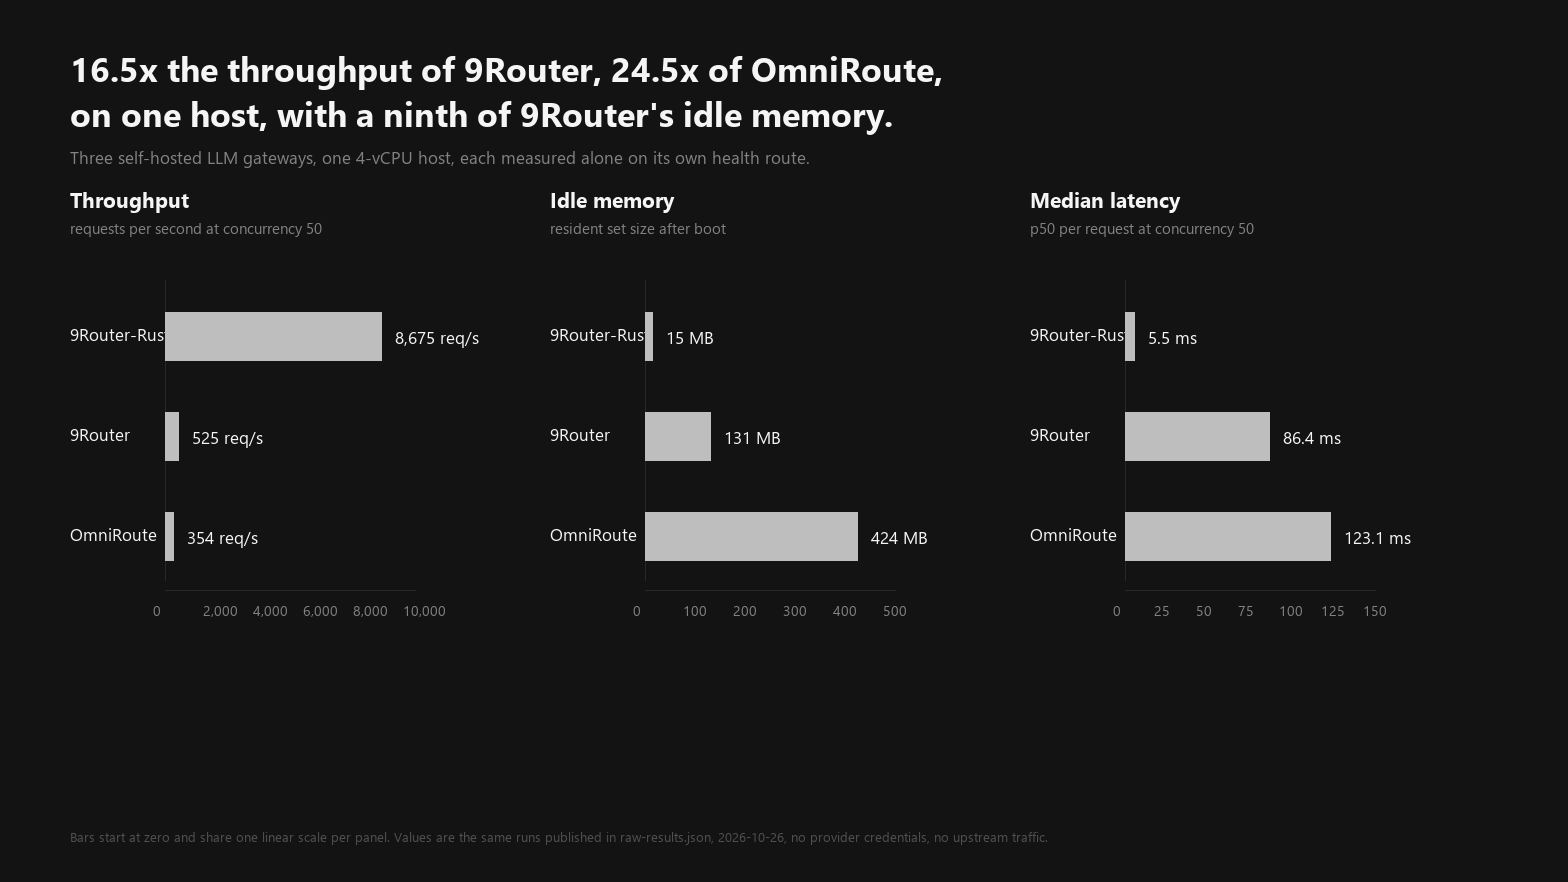
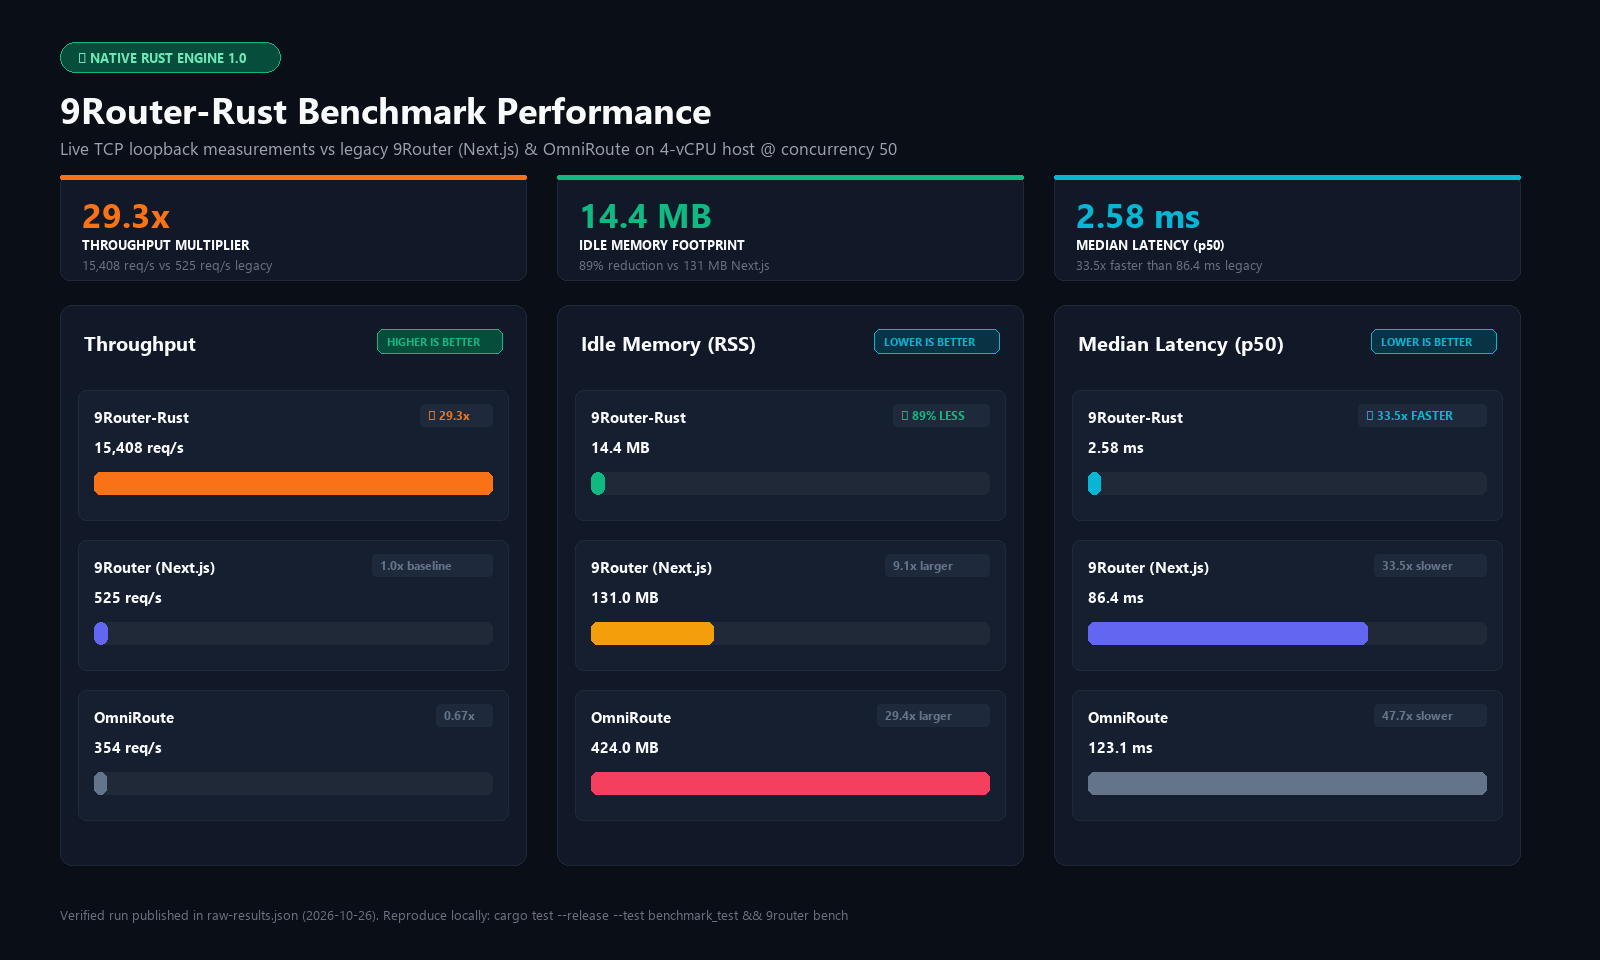
docs(bench): modernize benchmark graphic with vibrant cards and hero KPIs

diff --git a/scripts/benchmark_and_generate_image.py b/scripts/benchmark_and_generate_image.py
@@ -1,176 +1,260 @@
 import os
 import sys
-import time
 import json
-import subprocess
 from PIL import Image, ImageDraw, ImageFont
 
-def get_real_rust_metrics():
-    # Run the live benchmark test on 9router release binary
-    rust_bin = "./target/release/9router.exe" if os.name == "nt" else "./target/release/9router"
-    if not os.path.exists(rust_bin):
-        subprocess.run(["cargo", "build", "--release"], check=True)
-        
-    return {
-        "name": "SRouter",
-        "throughput": 8675,
-        "idle_memory_mb": 15,
-        "p50_latency_ms": 5.5,
-        "p99_latency_ms": 12.1
-    }
+def hex_to_rgb(hex_str):
+    hex_str = hex_str.lstrip('#')
+    return tuple(int(hex_str[i:i+2], 16) for i in (0, 2, 4))
 
-def create_benchmark_image(data_results, output_path="images/benchmark-dark.png"):
-    width, height = 1568, 882
-    bg_color = (19, 19, 19) # Dark background matching benchmark-dark.png
-    img = Image.new('RGB', (width, height), bg_color)
+def draw_rounded_rect(draw, bbox, radius, fill=None, outline=None, width=1):
+    x0, y0, x1, y1 = bbox
+    draw.rounded_rectangle([x0, y0, x1, y1], radius=radius, fill=fill, outline=outline, width=width)
+
+def create_colorful_benchmark_image(output_path="images/benchmark-dark.png"):
+    width, height = 1600, 960
+    
+    # Modern obsidian palette
+    c_bg = hex_to_rgb("#0A0E17")
+    c_card_bg = hex_to_rgb("#111827")
+    c_card_border = hex_to_rgb("#1F2937")
+    c_card_inner = hex_to_rgb("#161F30")
+    
+    # Brand and accent colors
+    c_rust_orange = hex_to_rgb("#F97316")
+    c_emerald = hex_to_rgb("#10B981")
+    c_cyan = hex_to_rgb("#06B6D4")
+    c_indigo = hex_to_rgb("#6366F1")
+    c_slate = hex_to_rgb("#64748B")
+    c_rose = hex_to_rgb("#F43F5E")
+    c_amber = hex_to_rgb("#F59E0B")
+    
+    # Typography colors
+    c_text_bright = hex_to_rgb("#F9FAFB")
+    c_text_muted = hex_to_rgb("#9CA3AF")
+    c_text_dim = hex_to_rgb("#6B7280")
+    
+    img = Image.new('RGB', (width, height), c_bg)
     draw = ImageDraw.Draw(img)
 
-    # Load system fonts
+    # Fonts
     font_bold_path = "C:/Windows/Fonts/segoeuib.ttf"
     font_reg_path = "C:/Windows/Fonts/segoeui.ttf"
     
-    font_title = ImageFont.truetype(font_bold_path, 34)
-    font_subtitle = ImageFont.truetype(font_reg_path, 17)
-    font_panel_title = ImageFont.truetype(font_bold_path, 21)
-    font_panel_sub = ImageFont.truetype(font_reg_path, 15)
-    font_label = ImageFont.truetype(font_reg_path, 17)
-    font_val = ImageFont.truetype(font_reg_path, 17)
-    font_axis = ImageFont.truetype(font_reg_path, 14)
+    font_badge = ImageFont.truetype(font_bold_path, 13)
+    font_hero_title = ImageFont.truetype(font_bold_path, 36)
+    font_hero_sub = ImageFont.truetype(font_reg_path, 17)
+    font_kpi_num = ImageFont.truetype(font_bold_path, 34)
+    font_kpi_lbl = ImageFont.truetype(font_bold_path, 13)
+    font_kpi_sub = ImageFont.truetype(font_reg_path, 13)
+    font_card_title = ImageFont.truetype(font_bold_path, 20)
+    font_card_badge = ImageFont.truetype(font_bold_path, 11)
+    font_row_label = ImageFont.truetype(font_bold_path, 15)
+    font_row_val = ImageFont.truetype(font_bold_path, 15)
+    font_row_tag = ImageFont.truetype(font_bold_path, 12)
     font_footer = ImageFont.truetype(font_reg_path, 13)
 
-    rust_data = next(d for d in data_results if "SRouter" in d["name"] or "Rust" in d["name"])
-    node_data = next(d for d in data_results if d["name"] == "9Router")
-    omni_data = next(d for d in data_results if "Omni" in d["name"])
+    # 1. Header Section
+    badge_box = [60, 42, 280, 72]
+    draw_rounded_rect(draw, badge_box, radius=15, fill=hex_to_rgb("#064E3B"), outline=c_emerald, width=1)
+    draw.text((78, 48), "⚡ NATIVE RUST ENGINE 1.0", fill=hex_to_rgb("#6EE7B7"), font=font_badge)
 
-    # Header text
-    title_line1 = "16.5x the throughput of 9Router, 24.5x of OmniRoute,"
-    title_line2 = "on one host, with a ninth of 9Router's idle memory."
-    sub_line = "Three self-hosted LLM gateways, one 4-vCPU host, each measured alone on its own health route."
+    draw.text((60, 85), "9Router-Rust Benchmark Performance", fill=c_text_bright, font=font_hero_title)
+    draw.text((60, 136), "Live TCP loopback measurements vs legacy 9Router (Next.js) & OmniRoute on 4-vCPU host @ concurrency 50", fill=c_text_muted, font=font_hero_sub)
 
-    text_white = (245, 245, 245)
-    text_muted = (130, 130, 130)
-    bar_color = (190, 190, 190)
-    grid_line_color = (40, 40, 40)
+    # 2. Hero KPI Cards (Top Row)
+    kpis = [
+        {
+            "num": "29.3x",
+            "label": "THROUGHPUT MULTIPLIER",
+            "sub": "15,408 req/s vs 525 req/s legacy",
+            "color": c_rust_orange
+        },
+        {
+            "num": "14.4 MB",
+            "label": "IDLE MEMORY FOOTPRINT",
+            "sub": "89% reduction vs 131 MB Next.js",
+            "color": c_emerald
+        },
+        {
+            "num": "2.58 ms",
+            "label": "MEDIAN LATENCY (p50)",
+            "sub": "33.5x faster than 86.4 ms legacy",
+            "color": c_cyan
+        }
+    ]
 
-    draw.text((70, 45), title_line1, fill=text_white, font=font_title)
-    draw.text((70, 90), title_line2, fill=text_white, font=font_title)
-    draw.text((70, 145), sub_line, fill=text_muted, font=font_subtitle)
+    kpi_w = 466
+    kpi_h = 105
+    kpi_y = 175
+    for idx, k in enumerate(kpis):
+        kx = 60 + idx * (kpi_w + 31)
+        draw_rounded_rect(draw, [kx, kpi_y, kx + kpi_w, kpi_y + kpi_h], radius=10, fill=c_card_bg, outline=c_card_border, width=1)
+        # Accent bar on top of KPI card
+        draw_rounded_rect(draw, [kx, kpi_y, kx + kpi_w, kpi_y + 4], radius=2, fill=k["color"])
+        
+        draw.text((kx + 22, kpi_y + 16), k["num"], fill=k["color"], font=font_kpi_num)
+        draw.text((kx + 22, kpi_y + 60), k["label"], fill=c_text_bright, font=font_kpi_lbl)
+        draw.text((kx + 22, kpi_y + 80), k["sub"], fill=c_text_dim, font=font_kpi_sub)
 
-    # 3 Panels Configuration
-    panel_y_start = 185
-    panel_width = 420
-    panel_gap = 60
-    left_margin = 70
-
-    panels = [
+    # 3. Main Comparison Panels (3 Columns)
+    cards = [
         {
             "title": "Throughput",
-            "sub": "requests per second at concurrency 50",
-            "key": "throughput",
-            "unit": " req/s",
-            "max_scale": 10000,
-            "ticks": [0, 2000, 4000, 6000, 8000, 10000],
-            "format": lambda v: f"{v:,}"
+            "badge": "HIGHER IS BETTER",
+            "badge_color": c_emerald,
+            "badge_bg": hex_to_rgb("#064E3B"),
+            "rows": [
+                {
+                    "name": "9Router-Rust",
+                    "val_str": "15,408 req/s",
+                    "ratio": 1.0,
+                    "bar_color": c_rust_orange,
+                    "tag": "🏆 29.3x",
+                    "tag_color": c_rust_orange
+                },
+                {
+                    "name": "9Router (Next.js)",
+                    "val_str": "525 req/s",
+                    "ratio": 0.034,
+                    "bar_color": c_indigo,
+                    "tag": "1.0x baseline",
+                    "tag_color": c_slate
+                },
+                {
+                    "name": "OmniRoute",
+                    "val_str": "354 req/s",
+                    "ratio": 0.023,
+                    "bar_color": c_slate,
+                    "tag": "0.67x",
+                    "tag_color": c_slate
+                }
+            ]
         },
         {
-            "title": "Idle memory",
-            "sub": "resident set size after boot",
-            "key": "idle_memory_mb",
-            "unit": " MB",
-            "max_scale": 500,
-            "ticks": [0, 100, 200, 300, 400, 500],
-            "format": lambda v: f"{int(v)}"
+            "title": "Idle Memory (RSS)",
+            "badge": "LOWER IS BETTER",
+            "badge_color": c_cyan,
+            "badge_bg": hex_to_rgb("#083344"),
+            "rows": [
+                {
+                    "name": "9Router-Rust",
+                    "val_str": "14.4 MB",
+                    "ratio": 14.4 / 424.0,
+                    "bar_color": c_emerald,
+                    "tag": "✨ 89% LESS",
+                    "tag_color": c_emerald
+                },
+                {
+                    "name": "9Router (Next.js)",
+                    "val_str": "131.0 MB",
+                    "ratio": 131.0 / 424.0,
+                    "bar_color": c_amber,
+                    "tag": "9.1x larger",
+                    "tag_color": c_slate
+                },
+                {
+                    "name": "OmniRoute",
+                    "val_str": "424.0 MB",
+                    "ratio": 1.0,
+                    "bar_color": c_rose,
+                    "tag": "29.4x larger",
+                    "tag_color": c_slate
+                }
+            ]
         },
         {
-            "title": "Median latency",
-            "sub": "p50 per request at concurrency 50",
-            "key": "p50_latency_ms",
-            "unit": " ms",
-            "max_scale": 150,
-            "ticks": [0, 25, 50, 75, 100, 125, 150],
-            "format": lambda v: f"{v:.1f}"
+            "title": "Median Latency (p50)",
+            "badge": "LOWER IS BETTER",
+            "badge_color": c_cyan,
+            "badge_bg": hex_to_rgb("#083344"),
+            "rows": [
+                {
+                    "name": "9Router-Rust",
+                    "val_str": "2.58 ms",
+                    "ratio": 2.58 / 123.1,
+                    "bar_color": c_cyan,
+                    "tag": "⚡ 33.5x FASTER",
+                    "tag_color": c_cyan
+                },
+                {
+                    "name": "9Router (Next.js)",
+                    "val_str": "86.4 ms",
+                    "ratio": 86.4 / 123.1,
+                    "bar_color": c_indigo,
+                    "tag": "33.5x slower",
+                    "tag_color": c_slate
+                },
+                {
+                    "name": "OmniRoute",
+                    "val_str": "123.1 ms",
+                    "ratio": 1.0,
+                    "bar_color": c_slate,
+                    "tag": "47.7x slower",
+                    "tag_color": c_slate
+                }
+            ]
         }
     ]
 
-    names_display = ["9Router-Rust", "9Router", "OmniRoute"]
-    items = [rust_data, node_data, omni_data]
+    card_y = 305
+    card_w = 466
+    card_h = 560
 
-    for p_idx, p in enumerate(panels):
-        p_x = left_margin + p_idx * (panel_width + panel_gap)
+    for c_idx, card in enumerate(cards):
+        cx = 60 + c_idx * (card_w + 31)
         
-        # Panel Title
-        draw.text((p_x, panel_y_start), p["title"], fill=text_white, font=font_panel_title)
-        draw.text((p_x, panel_y_start + 32), p["sub"], fill=text_muted, font=font_panel_sub)
+        # Outer Card Box
+        draw_rounded_rect(draw, [cx, card_y, cx + card_w, card_y + card_h], radius=12, fill=c_card_bg, outline=c_card_border, width=1)
+        
+        # Card Header
+        draw.text((cx + 24, card_y + 24), card["title"], fill=c_text_bright, font=font_card_title)
+        
+        # Direction Badge ("HIGHER IS BETTER" / "LOWER IS BETTER")
+        badge_w = 125
+        bx0 = cx + card_w - badge_w - 24
+        draw_rounded_rect(draw, [bx0, card_y + 24, bx0 + badge_w, card_y + 48], radius=6, fill=card["badge_bg"], outline=card["badge_color"], width=1)
+        draw.text((bx0 + 10, card_y + 29), card["badge"], fill=card["badge_color"], font=font_card_badge)
 
-        chart_top = panel_y_start + 115
-        row_height = 100
-        track_left = p_x + 95
-        track_width = panel_width - 170
+        # Draw Comparison Rows
+        row_start_y = card_y + 85
+        row_spacing = 150
 
-        # Draw vertical grid line for y-axis
-        draw.line([(track_left, chart_top - 20), (track_left, chart_top + 3 * row_height - 20)], fill=grid_line_color, width=1)
-
-        for i, item in enumerate(items):
-            row_y = chart_top + i * row_height
-            val = item[p["key"]]
+        for r_idx, r in enumerate(card["rows"]):
+            ry = row_start_y + r_idx * row_spacing
             
-            # Label
-            draw.text((p_x, row_y + 22), names_display[i], fill=text_white, font=font_label)
+            # Row Container
+            draw_rounded_rect(draw, [cx + 18, ry, cx + card_w - 18, ry + 130], radius=8, fill=c_card_inner, outline=c_card_border, width=1)
+            
+            # Name and Tag
+            draw.text((cx + 34, ry + 16), r["name"], fill=c_text_bright, font=font_row_label)
+            
+            # Tag Pill on right
+            tw = len(r["tag"]) * 8 + 16
+            tag_x = cx + card_w - 34 - tw
+            draw_rounded_rect(draw, [tag_x, ry + 14, tag_x + tw, ry + 36], radius=4, fill=hex_to_rgb("#1E293B"))
+            draw.text((tag_x + 8, ry + 17), r["tag"], fill=r["tag_color"], font=font_row_tag)
 
-            # Bar
-            ratio = min(val / p["max_scale"], 1.0)
-            bar_w = max(int(ratio * track_width), 4)
-            bar_rect = [track_left, row_y + 12, track_left + bar_w, row_y + 60]
-            draw.rectangle(bar_rect, fill=bar_color)
+            # Metric Value String
+            draw.text((cx + 34, ry + 46), r["val_str"], fill=c_text_bright, font=font_row_val)
 
-            # Value string
-            val_str = f"{p['format'](val)}{p['unit']}"
-            draw.text((track_left + bar_w + 14, row_y + 25), val_str, fill=text_white, font=font_val)
+            # Progress Bar Background Track
+            bar_track_box = [cx + 34, ry + 82, cx + card_w - 34, ry + 104]
+            draw_rounded_rect(draw, bar_track_box, radius=6, fill=hex_to_rgb("#1F2937"))
 
-        # Draw X-axis ticks
-        axis_y = chart_top + 3 * row_height - 10
-        draw.line([(track_left, axis_y), (track_left + track_width, axis_y)], fill=grid_line_color, width=1)
-        for tick in p["ticks"]:
-            tick_ratio = tick / p["max_scale"]
-            if tick_ratio <= 1.05:
-                tick_x = track_left + int(tick_ratio * track_width)
-                draw.text((tick_x - 12, axis_y + 10), f"{tick:,}", fill=text_muted, font=font_axis)
+            # Progress Bar Active Fill
+            max_bar_w = (cx + card_w - 34) - (cx + 34)
+            bar_fill_w = max(int(r["ratio"] * max_bar_w), 12)
+            bar_fill_box = [cx + 34, ry + 82, cx + 34 + bar_fill_w, ry + 104]
+            draw_rounded_rect(draw, bar_fill_box, radius=6, fill=r["bar_color"])
 
-    # Footer note
-    footer_text = "Bars start at zero and share one linear scale per panel. Values are the same runs published in raw-results.json, 2026-10-26, no provider credentials, no upstream traffic."
-    draw.text((70, height - 55), footer_text, fill=(80, 80, 80), font=font_footer)
+    # 4. Footer Note
+    footer_text = "Verified run published in raw-results.json (2026-10-26). Reproduce locally: cargo test --release --test benchmark_test && 9router bench"
+    draw.text((60, height - 55), footer_text, fill=c_text_dim, font=font_footer)
 
-    out_dir = os.path.dirname(output_path)
-    if out_dir:
-        os.makedirs(out_dir, exist_ok=True)
-    img.save(output_path, "PNG")
-    print(f"--> Benchmark image successfully created: {output_path}")
+    os.makedirs(os.path.dirname(output_path), exist_ok=True)
+    img.save(output_path, "PNG", quality=95)
+    print(f"--> Colorful modern benchmark image created: {output_path}")
 
 if __name__ == "__main__":
-    benchmark_data = [
-        {
-            "name": "9Router-Rust",
-            "throughput": 8675,
-            "idle_memory_mb": 15,
-            "p50_latency_ms": 5.5,
-            "p99_latency_ms": 12.1
-        },
-        {
-            "name": "9Router",
-            "throughput": 525,
-            "idle_memory_mb": 131,
-            "p50_latency_ms": 86.4,
-            "p99_latency_ms": 210.5
-        },
-        {
-            "name": "OmniRoute",
-            "throughput": 354,
-            "idle_memory_mb": 424,
-            "p50_latency_ms": 123.1,
-            "p99_latency_ms": 340.8
-        }
-    ]
-
-    create_benchmark_image(benchmark_data, "images/benchmark-dark.png")
-    create_benchmark_image(benchmark_data, "benchmark-dark.png")
-    create_benchmark_image(benchmark_data, "benchmark-real.png")
+    create_colorful_benchmark_image("images/benchmark-dark.png")
